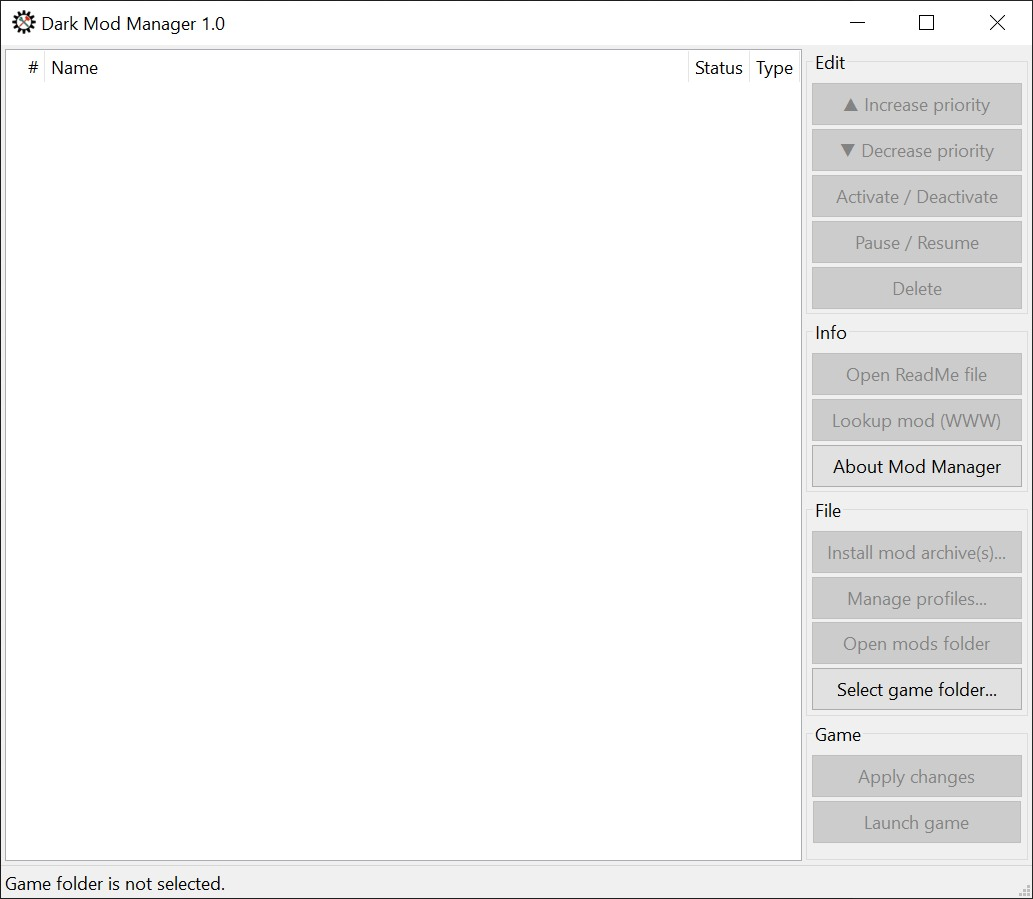
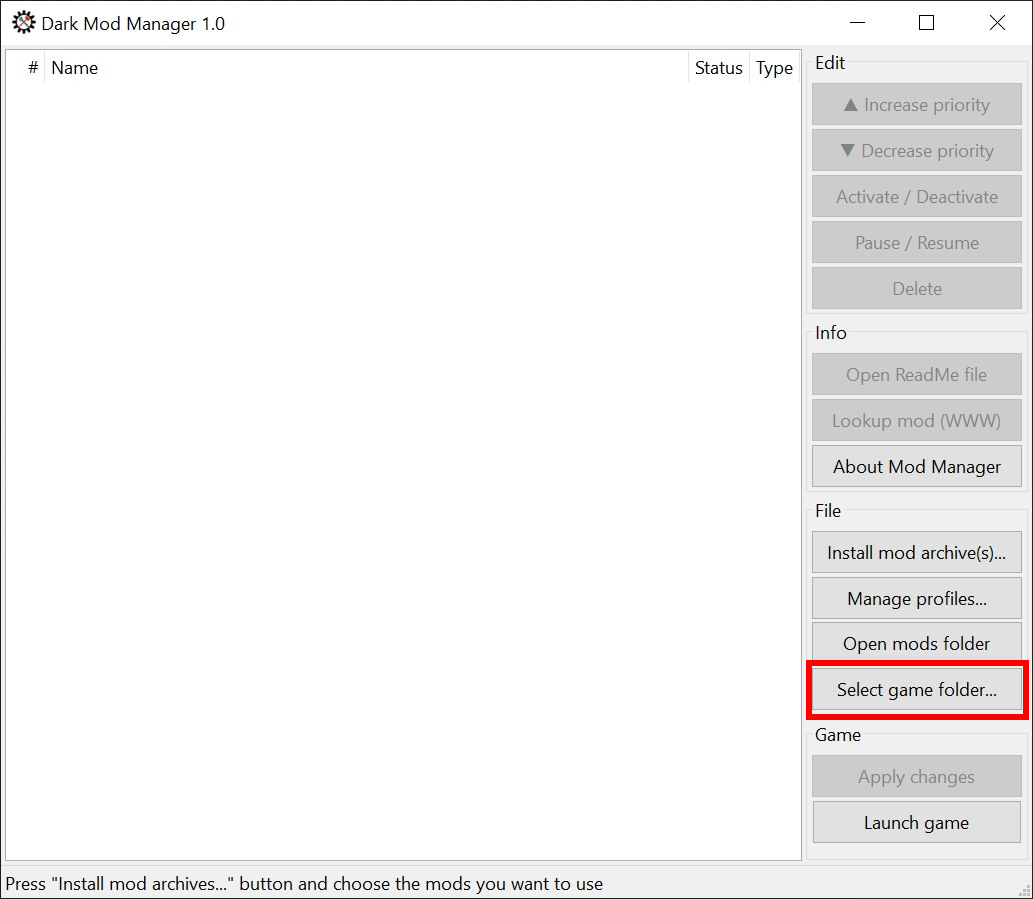
Add images and basic img styling

diff --git a/assets/css/style.scss b/assets/css/style.scss
@@ -3,37 +3,40 @@
 
 @import "{{ site.theme }}";
 
+$icon-height: 30px;
+
 .download-icon-simple {
-    height: 30px;
-    width: 30px;
+    height: $icon-height;
+    width: $icon-height;
     background: url("../images/icon_download.png");
-}
-
-.download-icon-executable {
-    height: 70px;
-    width: 70px;
-    background: url("../images/icon_executable.png");
-
-    &:hover {
-        background: url("../images/icon_executable_hover.png");
-    }
 }
 
 #downloads {
     display: flex;
     align-items: flex-end;
     justify-content: flex-end;
+    height: auto;
     width: auto;
-
+    bottom: -1 * $icon-height;
     background: none;
 
-    > i {
-        margin-left: -5px;
-    }
+    right: 10px; // header width
 
     > a {
         display: flex;
+        align-items: center;
         float: unset;
         margin: 0;
+    }
+}
+
+#main_content {
+    padding-top: 20px; // same as padding-bottom
+
+    img {
+        display: block;
+        margin-left: auto;
+        margin-right: auto;
+        width: 75%;
     }
 }

diff --git a/_layouts/default.html b/_layouts/default.html
@@ -25,10 +25,7 @@
 
           {% if site.show_downloads %}
             <section id="downloads" class="download-section">
-              <i class="download-icon-simple"></i>
-              <a class="download-icon-executable" href="{{ site.github.executable_url }}"></a>
-              <a class="zip_download_link" href="{{ site.github.zip_url }}">Download this project as a .zip file</a>
-              <a class="tar_download_link" href="{{ site.github.tar_url }}">Download this project as a tar.gz file</a>
+              <a href="{{ site.github.executable_url }}"><i class="download-icon-simple"></i> Download</a>
             </section>
           {% endif %}
         </header>

diff --git a/index.md b/index.md
@@ -2,33 +2,42 @@
 
 The Dark mod manager (DMM) lets you install and organize mods for System Shock 2, Thief and Thief II in a straightforward manner.
 
-### Requirements
+## Requirements
 
-| Game           | Version       |
-|:---------------|:--------------|
-| System Shock 2 | v2.4 or later |
-| Thief          | v1.19 or later|
-| Thief II       |v1.19 or later |
+| Game           | Version        |
+|:---------------|:---------------|
+| System Shock 2 | v2.4 or later  |
+| Thief          | v1.19 or later |
+| Thief II       | v1.19 or later |
 
-### Installation
+## Installation
 
 DMM is part of [SS2Tool](https://www.systemshock.org/index.php?topic=4141.0) and is installed alongside it.
 For a manual installation, download [the latest release](https://github.com/pshjt/dmm/releases/latest/download/dmm.exe) and preferably copy it to your game's main folder.
 For mod archive support, a `7z.dll` needs to be present in the same folder as DMM.
 
-### How to use
+## How to use
 
+#### Install mods
 Launch DMM. If the game is not yet detected, press **Select game folder...** and select your game's main folder.
+![Select game folder](/assets/images/dmm_1.jpg "Select game folder")
 
 Press **Install mod archives...** and select the mod archives to install. You can select multiple files at once using <kbd>Shift</kbd> and <kdb>Ctrl</kdb>. Confirm by clicking **Open**.
+![Select archives to install](/assets/images/dmm_archive.jpg "Select archives to install")
 
-Activate mods and arrange their priorities as needed. Mods that are higher on the list override every mod below it. When finished, press **Apply changes** and **Launch game** to play.
+Activate mods and arrange their priorities as needed. Mods that are higher on the list override every mod below it.
+![Finished installation with example mod list](/assets/images/dmm_2.jpg "Finished installation with example mod list")
+When finished, press **Apply changes** and **Launch game** to play.
 
-If you want further information about a mod, you can press **Lookup (WWW)** to open a Google search or **Open a ReadMe** file if present. If you have no further use of a mod, you can **Delete** it. Deleting a mod 
+If you want further information about a mod, you can press **Lookup (WWW)** to open a Google search or **Open a ReadMe** file if present. If you have no further use of a mod, you can **Delete** it, which removes the mod from both DMM, and your hard drive. 
 
-To save your current mod loadout for later re-use, open the profile manager.
+#### Mod profiles
+To save your current mod order for later re-use, open the profile manager via **Manage profiles...**.
 
 Press **Save profile...** to save your current profile or **Load file...** to load a previous profile.
+![Profile manager](/assets/images/dmm_profile1.jpg "Profile manager")
 
 The result window shows a preview of your loaded profile. Mods which were deleted in the meantime cannot be loaded and are marked as such.
-Press **Use** to apply the loaded profile.
+![Profile preview](/assets/images/dmm_profile2.jpg "Profile preview")
+
+Press **Use** to apply the loaded profile, or simply close the window to discard your choice.
